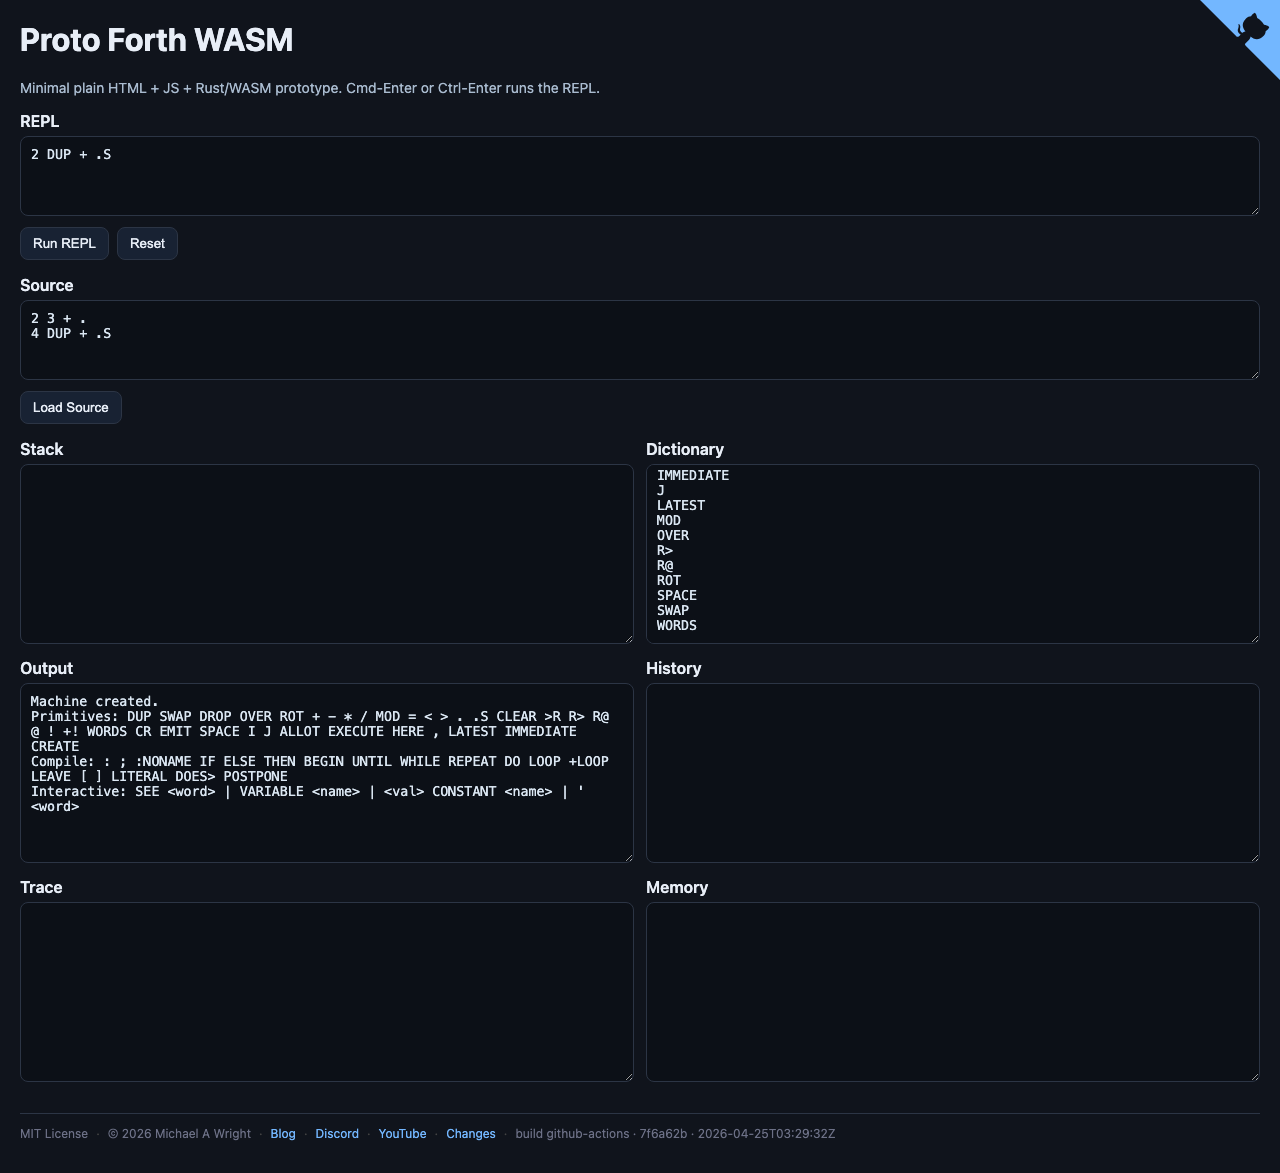
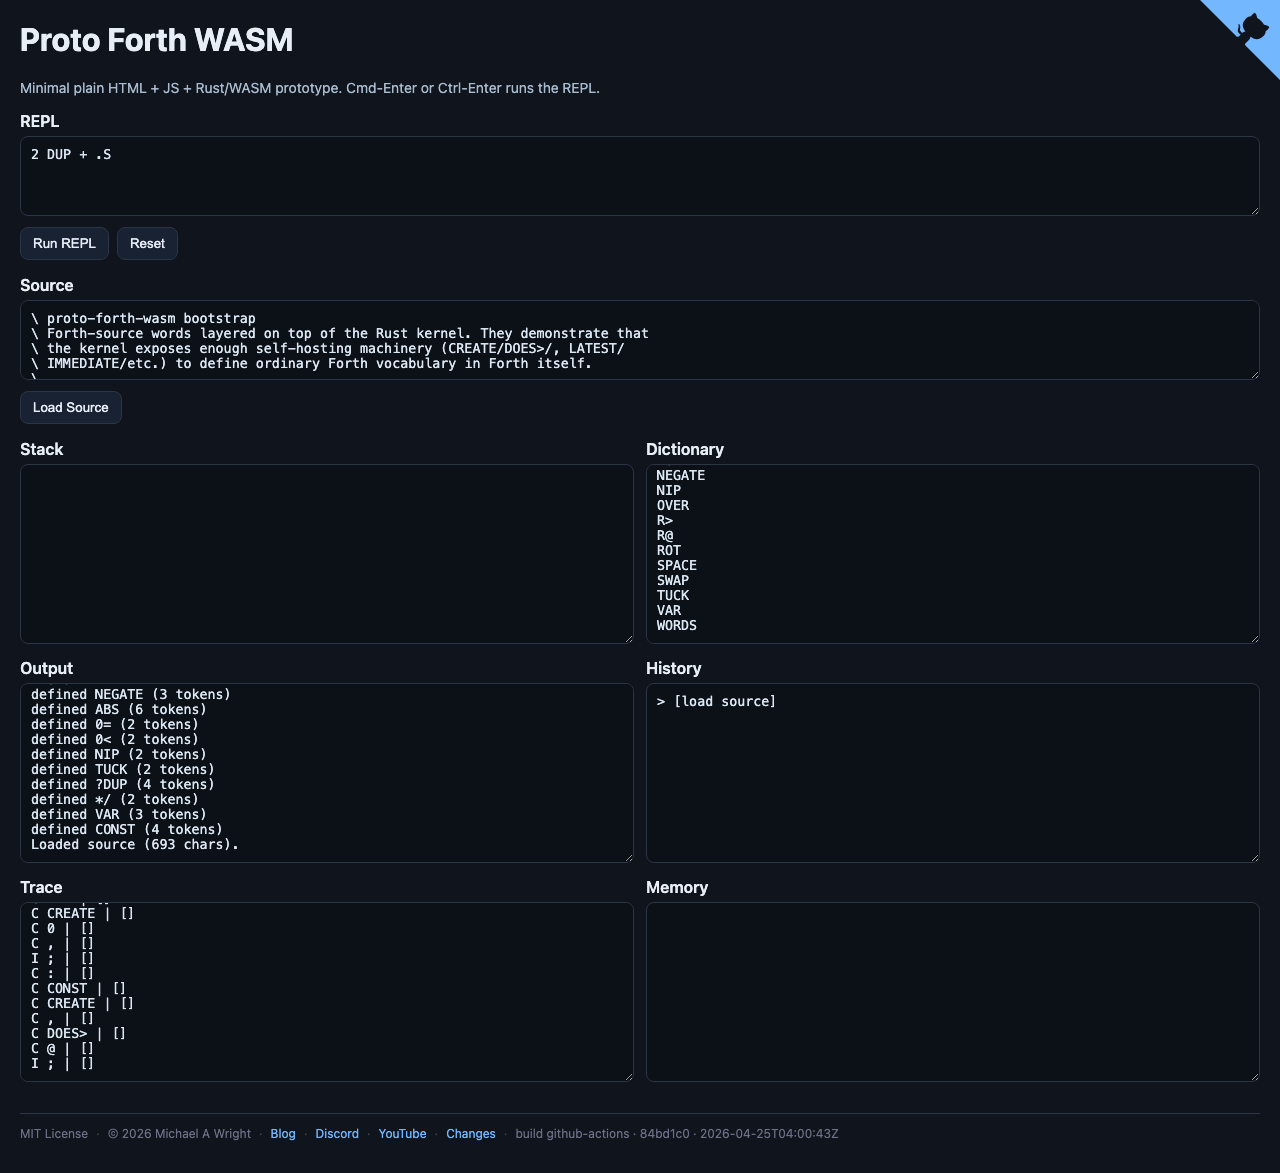
Refresh screenshot showing bootstrap auto-load
Resnap after dc1da9d / 84bd1c0 land the Forth-source bootstrap and
block-comment support. The screenshot now shows:
- Source pane pre-filled with the bootstrap comments and definitions
- Dictionary pane listing the bootstrap-added words (NEGATE, NIP,
  TUCK, VAR, etc.) alongside the kernel primitives
- Output pane logging the "defined X (N tokens)" lines from the
  initial load_source call
- Trace pane showing compile activity for VAR / CONST / DOES>

Bumps the cache-buster ?ts to 1777089738391.

diff --git a/README.md b/README.md
@@ -4,7 +4,7 @@ Minimal plain HTML + JS + Rust/WASM prototype for a proto-Forth workbench.
 
 **Live demo:** <https://sw-vibe-coding.github.io/sw-fth-wasm/>
 
-![screenshot](images/screenshot.png?ts=1777088552870)
+![screenshot](images/screenshot.png?ts=1777089738391)
 
 ## What it does
 
